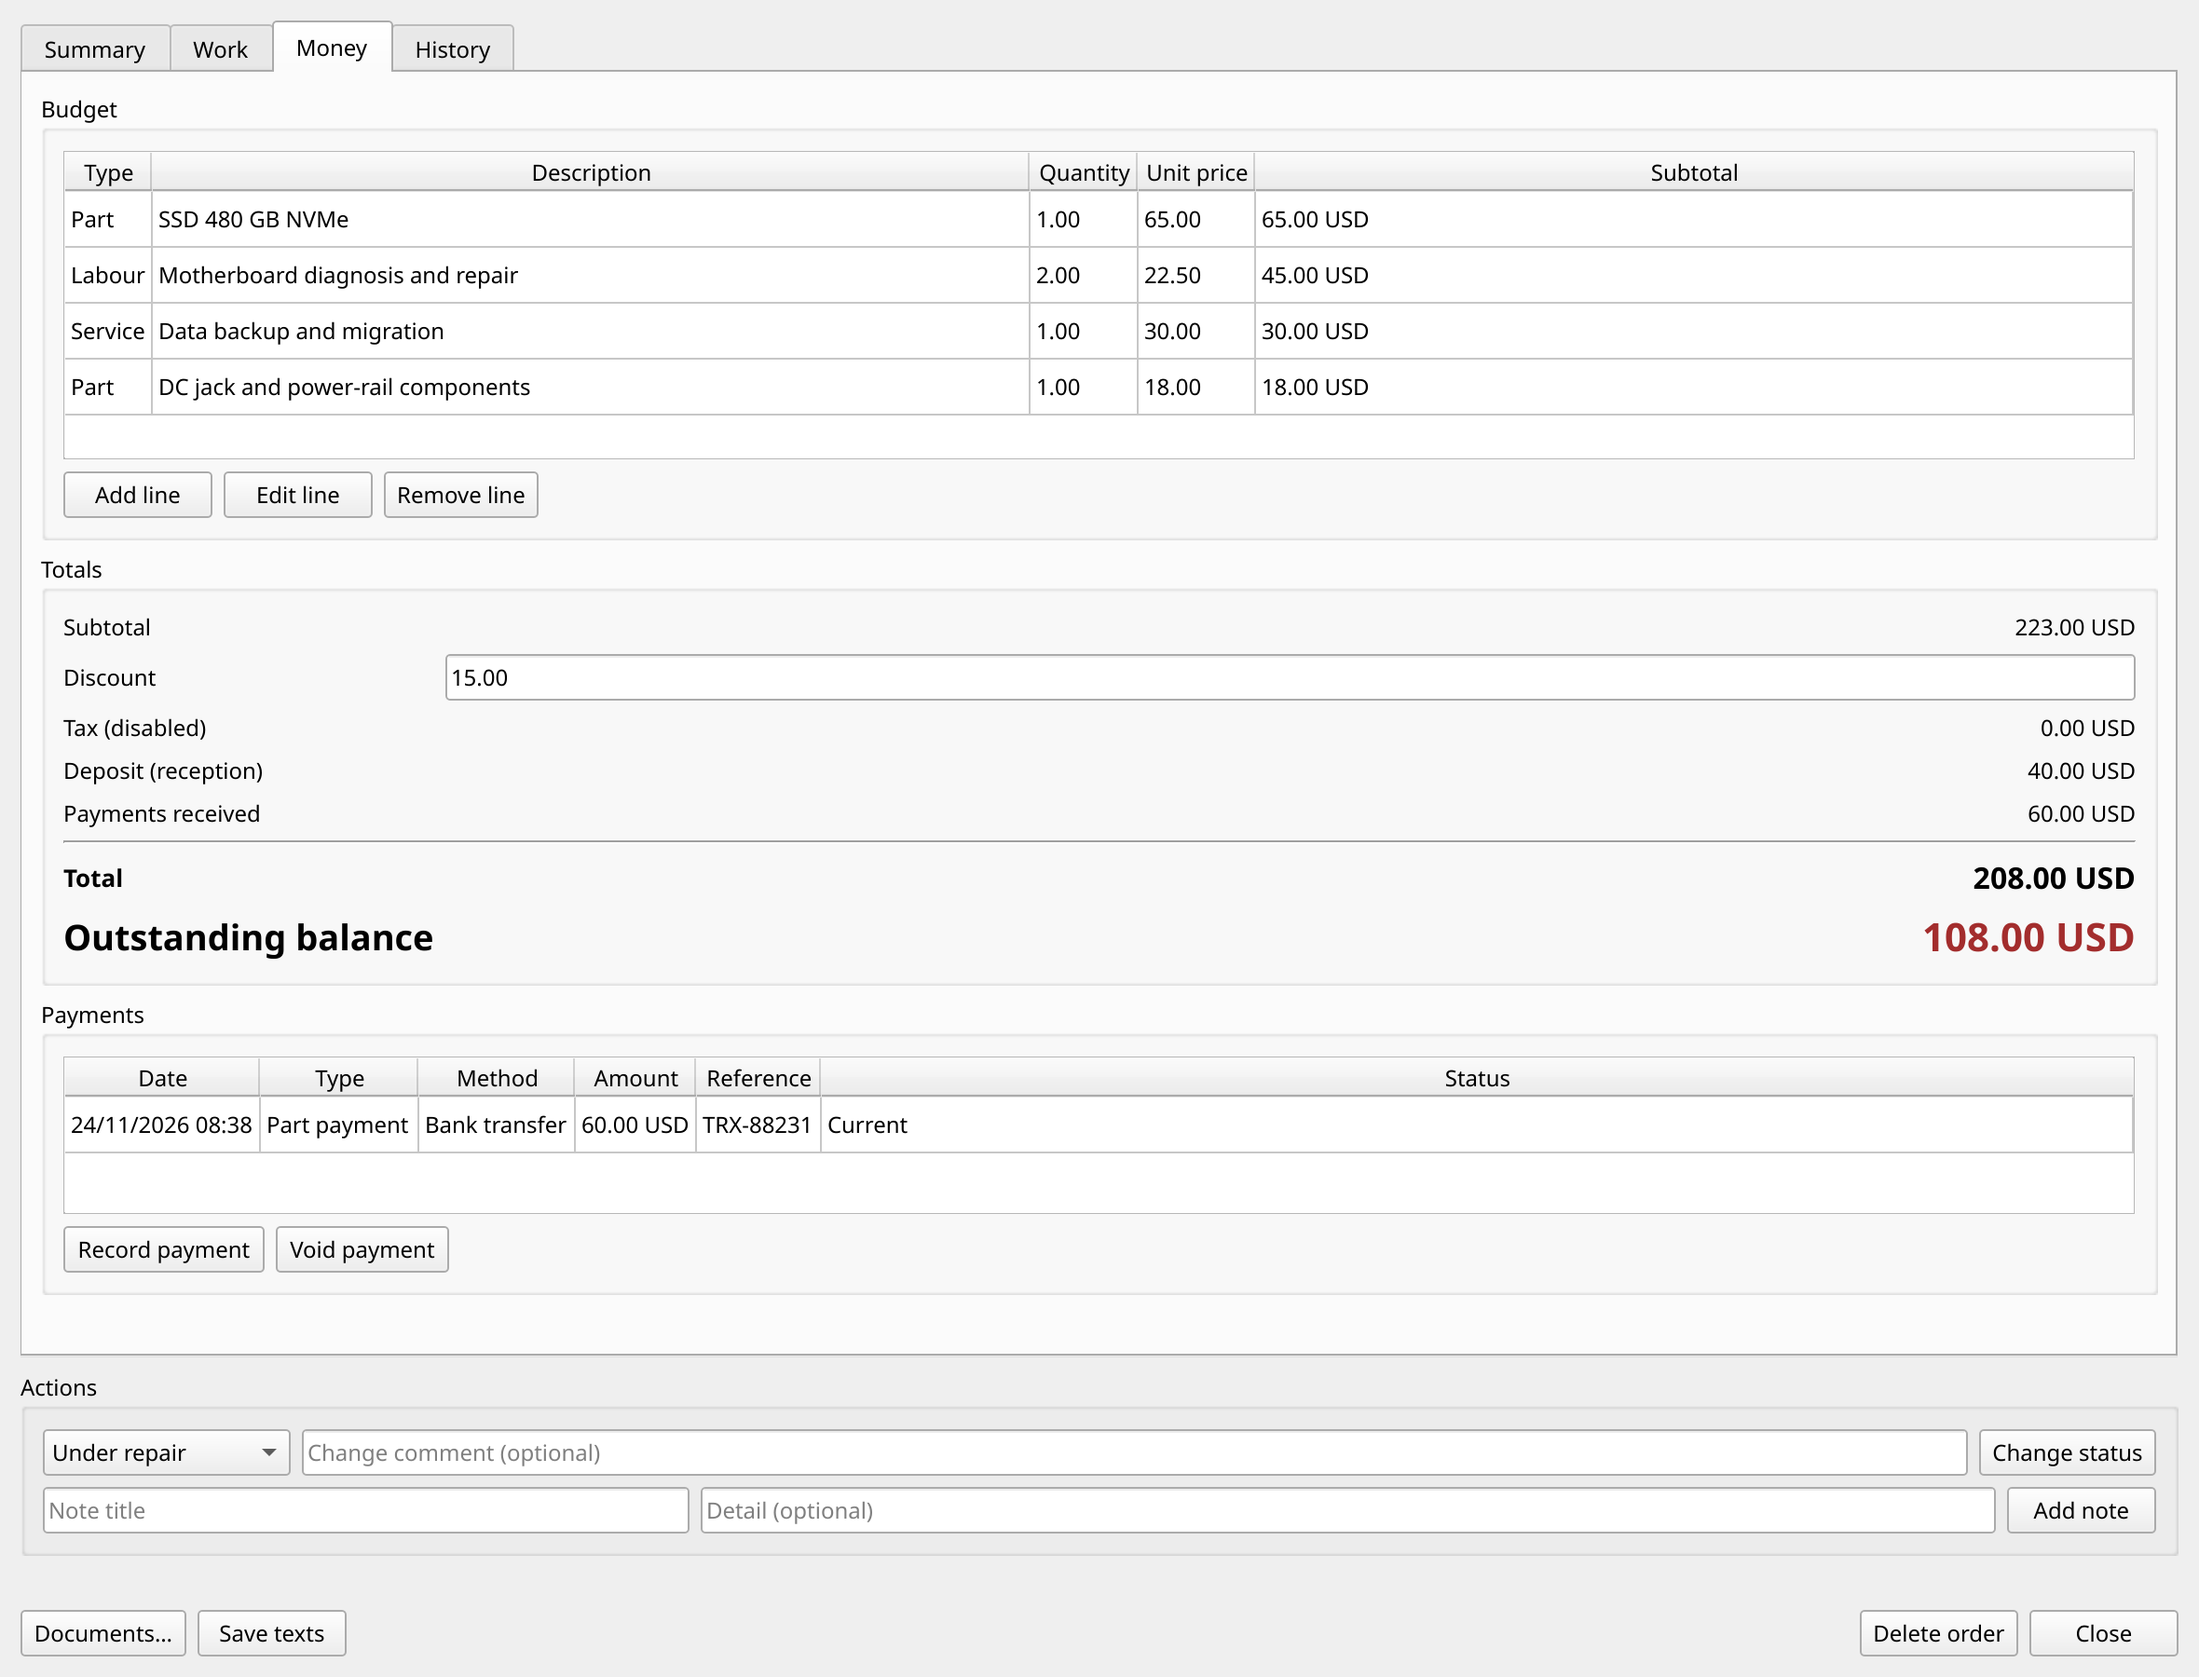
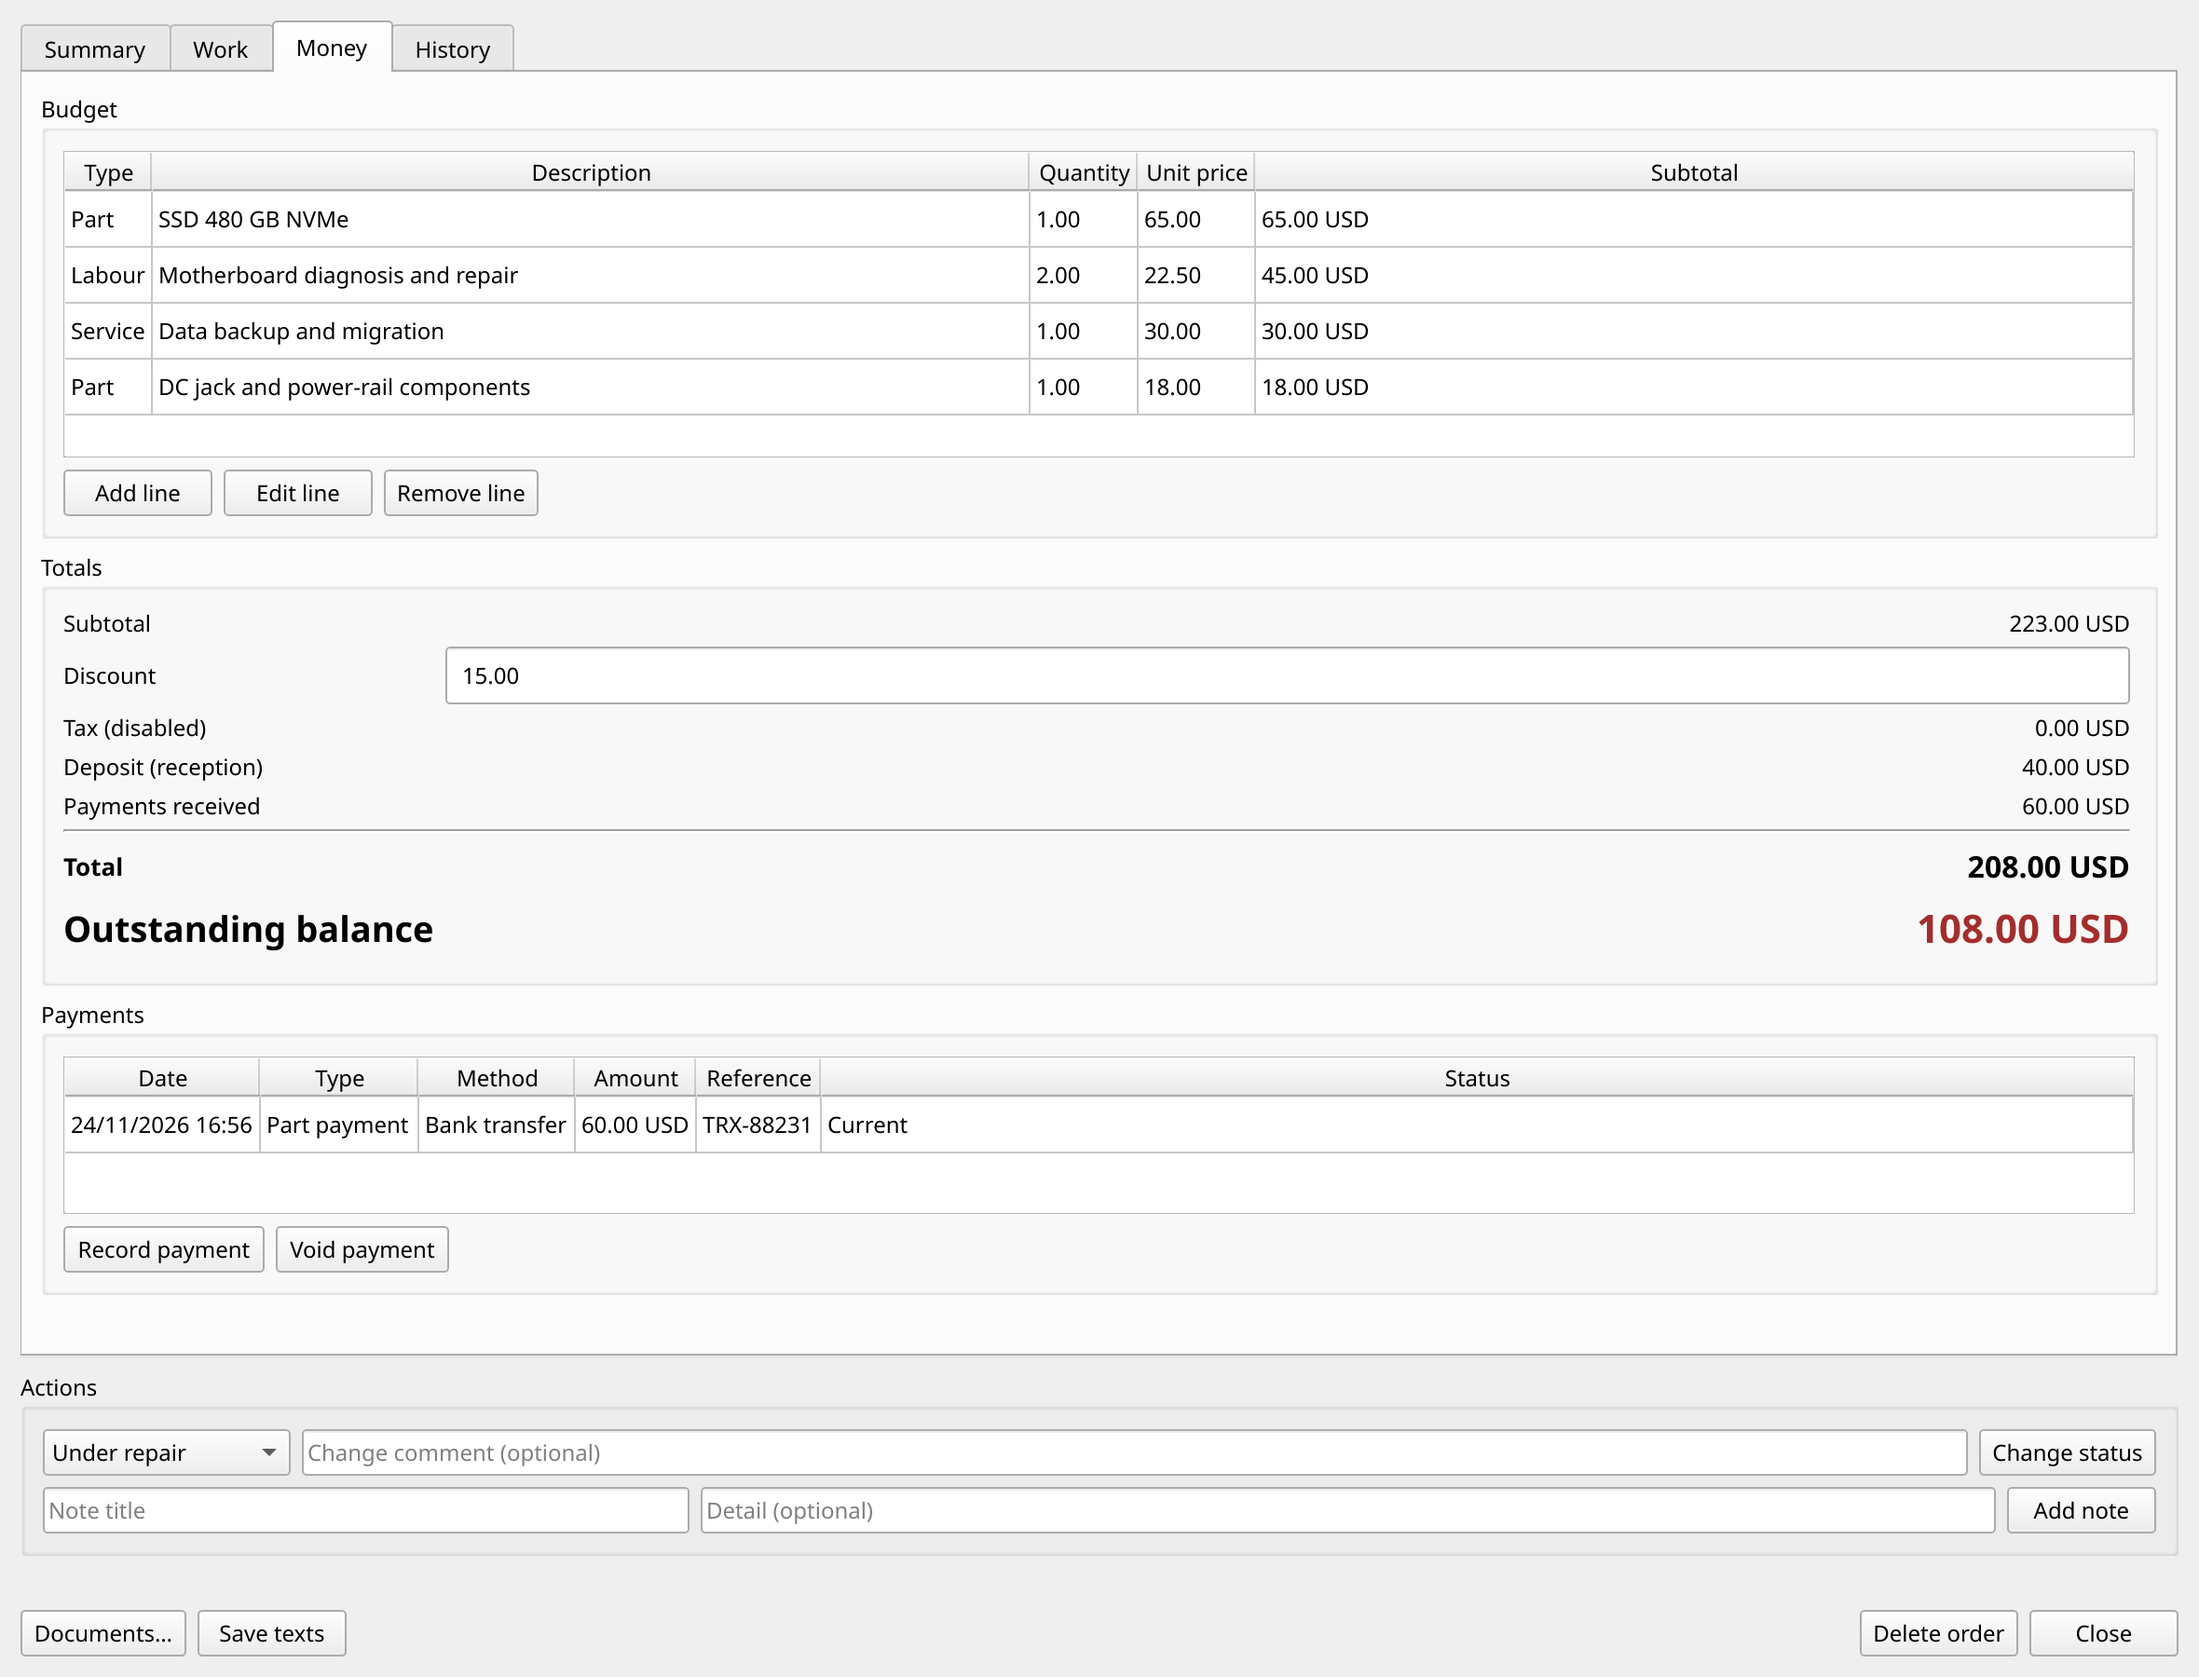
fix(ui): dar aire al descuento y al saldo de la pestaña Dinero
El importe del descuento quedaba pegado al borde de su campo y el saldo
pendiente se apoyaba en el borde de la caja de totales, donde se recortaba
en pantallas bajas. El campo lleva márgenes internos, las filas destacadas
tienen alto mínimo y la caja de totales deja aire abajo y a la derecha.

🤖 Generated with Codebuff

diff --git a/src/luciotech/ui/dialogs/budget_payments_tab.py b/src/luciotech/ui/dialogs/budget_payments_tab.py
@@ -192,12 +192,16 @@ class BudgetPaymentsTab(QWidget):
 
         self._discount = QLineEdit()
         self._discount.setPlaceholderText("0.00")
+        # Aire dentro del campo: con el margen por omisión el importe queda pegado al borde.
+        self._discount.setTextMargins(6, 3, 6, 3)
         self._discount.editingFinished.connect(self._apply_discount)
 
         self._totals_labels: dict[str, QLabel] = {}
         self._totals_values: dict[str, QLabel] = {}
         totals_box = QGroupBox(self.tr("Totals"))
         totals_grid = QGridLayout(totals_box)
+        totals_grid.setContentsMargins(9, 8, 12, 12)
+        totals_grid.setVerticalSpacing(4)
         totals_grid.setColumnStretch(1, 1)
         row = 0
         row = self._add_total_row(totals_grid, row, "subtotal", self.tr("Subtotal"))
@@ -267,6 +271,9 @@ class BudgetPaymentsTab(QWidget):
         if points:
             _set_points(label, points - 2, QFont.Weight.DemiBold)
             _set_points(value, points, QFont.Weight.Bold)
+            # Los números grandes no caben si la fila mide justo lo que la fuente.
+            for widget in (label, value):
+                widget.setMinimumHeight(widget.fontMetrics().height() + 4)
         self._totals_labels[key] = label
         self._totals_values[key] = value
         grid.addWidget(label, row, 0)

diff --git a/tests/test_budget_payments_ui.py b/tests/test_budget_payments_ui.py
@@ -85,6 +85,17 @@ def _fake_payment_dialog(monkeypatch: pytest.MonkeyPatch, values: tuple) -> None
     monkeypatch.setattr(PaymentDialog, "values", lambda self: values)
 
 
+def test_the_amounts_have_room_inside_their_boxes(
+    qtbot: QtBot, session_factory: sessionmaker[Session], order_id: int
+) -> None:
+    """El descuento y el saldo no deben quedar pegados al borde de lo que los contiene."""
+    tab = _tab(qtbot, session_factory, order_id)
+
+    saldo = tab._totals_values["saldo"]
+    assert saldo.minimumHeight() >= saldo.fontMetrics().height() + 4
+    assert tab._discount.textMargins().top() > 0
+
+
 def test_totals_panel_says_when_tax_is_disabled(
     qtbot: QtBot, session_factory: sessionmaker[Session]
 ) -> None:

diff --git a/README_ES.md b/README_ES.md
@@ -13,7 +13,7 @@
   <img alt="SQLite" src="https://img.shields.io/badge/database-SQLite-003B57.svg?logo=sqlite&logoColor=white">
   <img alt="Linux y Windows" src="https://img.shields.io/badge/platform-Linux%20%7C%20Windows-2C2C2C.svg">
   <img alt="Funciona 100 % sin conexión" src="https://img.shields.io/badge/offline-100%25-4C1.svg">
-  <img alt="486 pruebas pasan" src="https://img.shields.io/badge/tests-487%20passing-brightgreen.svg">
+  <img alt="486 pruebas pasan" src="https://img.shields.io/badge/tests-488%20passing-brightgreen.svg">
   <img alt="Fase 3 cerrada" src="https://img.shields.io/badge/status-Phase%203%20complete-brightgreen.svg">
 </p>
 
@@ -652,7 +652,7 @@ La suite usa una base de datos SQLite temporal para cada prueba y ejecuta la int
 
 ### Estado de las pruebas en Windows
 
-Verificado en Windows 11 con Python 3.13.15 y PyQt6 6.9.0: la suite completa pasa (alrededor de 1 minuto). En Linux la misma suite también pasa: **487 de 487** con `.venv/bin/python -m pytest` (Python 3.13.5, PyQt6 6.9.0, unos 50 segundos).
+Verificado en Windows 11 con Python 3.13.15 y PyQt6 6.9.0: la suite completa pasa (alrededor de 1 minuto). En Linux la misma suite también pasa: **488 de 488** con `.venv/bin/python -m pytest` (Python 3.13.5, PyQt6 6.9.0, unos 50 segundos).
 
 Antes fallaba una prueba solo en Windows: `tests/test_rich_text_editor.py::test_toolbar_rows_are_compact_and_only_grow_when_scrolling_is_needed`. La causa no era un error del producto sino una suposición dependiente de la plataforma en la prueba. La prueba redimensionaba el editor de texto enriquecido a 900 px fijos y esperaba que las dos filas de la barra cupieran sin desplazamiento horizontal. En Windows las métricas de la fuente de la barra son más anchas, así que la fila de acciones necesita **976 px** y se desplaza legítimamente a 900 px —por tanto su altura (47 px, barra más barra de desplazamiento) era correcta, y solo la fila de formato (657 px) volvía a los 33 px compactos—. En Linux la misma fila mide menos de 900 px, así que la suposición se cumplía.
 
@@ -663,7 +663,7 @@ Se hicieron dos cambios:
 
 La altura compacta (33 px) y la expandida (47 px) no cambian; el arreglo solo elimina el riesgo de altura obsoleta y hace la prueba independiente de la plataforma.
 
-Un detalle inofensivo mientras corre la suite: pytest imprime `Windows fatal exception: code 0x80040155` seguido de una traza que termina en `print_document` o `render_to_pdf`. Viene de construir un `QPrinter` bajo la plataforma offscreen, donde no hay un subsistema de impresión real. Es una excepción de primera oportunidad que Qt maneja internamente: las pruebas afectadas (`test_render_to_pdf_creates_a_pdf` y las pruebas de PDF de `tests/test_print_page.py`) siguen pasando y los PDF se escriben correctamente. La línea de resumen (`487 passed`) es la que cuenta.
+Un detalle inofensivo mientras corre la suite: pytest imprime `Windows fatal exception: code 0x80040155` seguido de una traza que termina en `print_document` o `render_to_pdf`. Viene de construir un `QPrinter` bajo la plataforma offscreen, donde no hay un subsistema de impresión real. Es una excepción de primera oportunidad que Qt maneja internamente: las pruebas afectadas (`test_render_to_pdf_creates_a_pdf` y las pruebas de PDF de `tests/test_print_page.py`) siguen pasando y los PDF se escriben correctamente. La línea de resumen (`488 passed`) es la que cuenta.
 
 Hay una trampa real al lado, y costó un segfault: `QPrintPreviewDialog` **no** toma posesión del `QPrinter` que recibe, guarda un puntero crudo. Pasar un temporal (`QPrintPreviewDialog(_printer(), None)`) deja la vista previa apuntando a memoria liberada y el proceso muere después, lejos de la causa. Las pruebas mantienen la impresora en una variable, y `print_document` hace lo mismo.
 

diff --git a/README.md b/README.md
@@ -13,7 +13,7 @@
   <img alt="SQLite" src="https://img.shields.io/badge/database-SQLite-003B57.svg?logo=sqlite&logoColor=white">
   <img alt="Linux and Windows" src="https://img.shields.io/badge/platform-Linux%20%7C%20Windows-2C2C2C.svg">
   <img alt="Runs 100% offline" src="https://img.shields.io/badge/offline-100%25-4C1.svg">
-  <img alt="486 tests passing" src="https://img.shields.io/badge/tests-487%20passing-brightgreen.svg">
+  <img alt="486 tests passing" src="https://img.shields.io/badge/tests-488%20passing-brightgreen.svg">
   <img alt="Phase 3 complete" src="https://img.shields.io/badge/status-Phase%203%20complete-brightgreen.svg">
 </p>
 
@@ -641,7 +641,7 @@ The suite uses a temporary SQLite database for each test and runs the Qt interfa
 
 ### Windows test status
 
-Verified on Windows 11 with Python 3.13.15 and PyQt6 6.9.0: the whole suite passes (about 1 minute). On Linux the same suite passes as well: **487 of 487** with `.venv/bin/python -m pytest` (Python 3.13.5, PyQt6 6.9.0, about 50 seconds).
+Verified on Windows 11 with Python 3.13.15 and PyQt6 6.9.0: the whole suite passes (about 1 minute). On Linux the same suite passes as well: **488 of 488** with `.venv/bin/python -m pytest` (Python 3.13.5, PyQt6 6.9.0, about 50 seconds).
 
 Previously one test failed on Windows only: `tests/test_rich_text_editor.py::test_toolbar_rows_are_compact_and_only_grow_when_scrolling_is_needed`. The cause was not a product bug but a platform-dependent assumption in the test. The test resized the rich-text editor to a fixed 900 px and expected both toolbar rows to fit without horizontal scrolling. On Windows the toolbar font metrics are wider, so the action row needs **976 px** and legitimately scrolls at 900 px — its height (47 px, toolbar plus scrollbar) was therefore correct, and only the format row (657 px) returned to the compact 33 px. On Linux the same row is narrower than 900 px, so the assumption held.
 
@@ -652,7 +652,7 @@ Two changes were made:
 
 The compact height (33 px) and the expanded height (47 px) are unchanged; the fix only removes the stale-height risk and makes the test platform-independent.
 
-One harmless detail while the suite runs: pytest prints `Windows fatal exception: code 0x80040155` followed by a stack trace that ends in `print_document` or `render_to_pdf`. It comes from `QPrinter` being constructed under the offscreen platform, where there is no real print subsystem. It is a first-chance exception that Qt handles internally: the affected tests (`test_render_to_pdf_creates_a_pdf` and the PDF tests of `tests/test_print_page.py`) still pass and the PDFs are written correctly. The summary line (`487 passed`) is the one that counts.
+One harmless detail while the suite runs: pytest prints `Windows fatal exception: code 0x80040155` followed by a stack trace that ends in `print_document` or `render_to_pdf`. It comes from `QPrinter` being constructed under the offscreen platform, where there is no real print subsystem. It is a first-chance exception that Qt handles internally: the affected tests (`test_render_to_pdf_creates_a_pdf` and the PDF tests of `tests/test_print_page.py`) still pass and the PDFs are written correctly. The summary line (`488 passed`) is the one that counts.
 
 There is a real trap next to it, and it cost a segfault: `QPrintPreviewDialog` does **not** take ownership of the `QPrinter` it is given, it keeps a raw pointer. Passing a temporary (`QPrintPreviewDialog(_printer(), None)`) leaves the preview pointing at freed memory and the process dies later, far from the cause. The tests keep the printer in a variable, and `print_document` does the same.
 

diff --git a/AGENTS.md b/AGENTS.md
@@ -150,6 +150,6 @@ Las rutas de datos son XDG (`~/.local/share/...` y `~/.local/state/.../logs/`). 
 - Bloque 12 (rama `feat/usuarios`, 2026-11-09): el acceso diario **muestra los usuarios activos en una lista desplegable** por su nombre completo en vez de pedir teclear el nombre de usuario; la cuenta del último acceso va primera (`list_login_users`) y las desactivadas no aparecen. El primer arranque sigue pidiendo crear el administrador.
 - Bloque 13 (rama `feat/usuarios`, 2026-11-10): **pantalla de Configuración** (`ui/dialogs/settings_dialog.py`, solo administradores) con tres pestañas. Nuevas claves `condiciones_garantia` y `garantia_dias` en `settings_service.py`, marcadores `{dias}`, `{orden}` y `{meses}`, y `_legal_html` en `ui/documents.py` para que los términos y la garantía salgan en los cuatro documentos al cliente. Las órdenes nuevas heredan los días de garantía configurados y las antiguas sin días propios los toman como respaldo (`effective_warranty_days`).
 - Cierre de la Fase 3 (2026-11-14): los checklists de §26 y §30 se copiaron desde «Seguimiento de fase activa» (regla 9 del ROADMAP). El **resumen previo al guardado** de §7.5 queda trasladado a la Fase 4 (regla 7), no se marca como hecho. Las pruebas de PDF no extraen texto porque el entorno no tiene lector de PDF: verifican la maqueta, el encabezado, el pie y el número de hojas (§13). Los checklists de §2 a §25 son espejos históricos de la especificación, no estado de avance.
-- 487 pruebas pasan con `.venv/Scripts/python.exe -m pytest` en Windows (`.venv/bin/python -m pytest` en Linux/macOS).
+- 488 pruebas pasan con `.venv/Scripts/python.exe -m pytest` en Windows (`.venv/bin/python -m pytest` en Linux/macOS).
 - La interfaz es multilingüe (§21): inglés como idioma fuente y español traducido en `translations/luciotech_es.ts`; el idioma se elige en Configuración y se aplica al reabrir.
 - El punto de entrada es `luciotech.main`; ejecútalo con `PYTHONPATH=src` o con el paquete instalado. La aplicación migra la base al arrancar.
